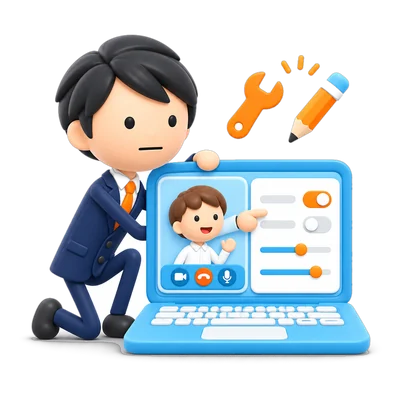
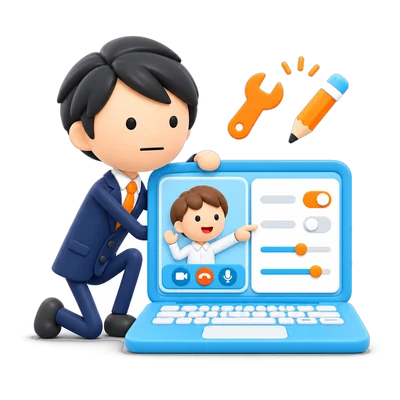
Sales: bỏ trang 08 FLOW, đánh lại số JILNESTA; tạo lại 3 cảnh salaryman lỗi tay (jil6, jil7, pr5) kèm test check-scene-arms

diff --git a/index.html b/index.html
@@ -2352,10 +2352,9 @@ html.js .pg.in .sf--n8 .sf-run{animation:sfN8Me var(--sf-t) var(--mv-p) infinite
       <a href="#sales-pr" data-sec="sales-pr"><em>05</em><span>ASEAN発表と展示会</span></a>
       <a href="#sales-reports" data-sec="sales-reports"><em>06</em><span>報告と会議</span></a>
       <a href="#sales-kpi" data-sec="sales-kpi"><em>07</em><span>KPIと評価項目</span></a>
-      <a href="#sales-flow" data-sec="sales-flow"><em>08</em><span>業務の流れ</span></a>
-      <a href="#sales-jil-hcm" data-sec="sales-jil-hcm"><em>09</em><span data-l="ja">JILNESTA 顧客マップ</span><span data-l="en">JILNESTA client map</span><span data-l="vi">JILNESTA bản đồ khách hàng</span></a>
-      <a href="#sales-jil-offshore" data-sec="sales-jil-offshore"><em>10</em><span data-l="ja">オフショア開発</span><span data-l="en">Offshore</span><span data-l="vi">Offshore Việt Nam - Nhật Bản</span></a>
-      <a href="#sales-jil-flow" data-sec="sales-jil-flow"><em>11</em><span data-l="ja">ITオフショア営業</span><span data-l="en">IT offshore sales</span><span data-l="vi">Kinh doanh IT offshore</span></a>
+      <a href="#sales-jil-hcm" data-sec="sales-jil-hcm"><em>08</em><span data-l="ja">JILNESTA 顧客マップ</span><span data-l="en">JILNESTA client map</span><span data-l="vi">JILNESTA bản đồ khách hàng</span></a>
+      <a href="#sales-jil-offshore" data-sec="sales-jil-offshore"><em>09</em><span data-l="ja">オフショア開発</span><span data-l="en">Offshore</span><span data-l="vi">Offshore Việt Nam - Nhật Bản</span></a>
+      <a href="#sales-jil-flow" data-sec="sales-jil-flow"><em>10</em><span data-l="ja">ITオフショア営業</span><span data-l="en">IT offshore sales</span><span data-l="vi">Kinh doanh IT offshore</span></a>
     </nav>
     <nav class="sb-nav" data-for="hr" hidden>
       <a href="#hr-top" data-sec="hr-top"><em>TOP</em><span data-l="ja">概要</span><span data-l="en">Overview</span><span data-l="vi">Tổng quan</span></a>
@@ -2956,7 +2955,7 @@ html.js .pg.in .sf--n8 .sf-run{animation:sfN8Me var(--sf-t) var(--mv-p) infinite
   <h2 class="kw rv" style="--d:60ms">顧客を訪問し、<br /><i>商談の進捗を数字で追う。</i></h2>
   <div class="kwbar rv" style="--d:120ms"><span></span></div>
   <p class="kw-sub rv" style="--d:140ms">MAYEKAWA VIETNAM（MYCOM、産業用冷凍機）における営業活動の記録です。2022年2月から2026年6月まで、営業部のアシスタントマネージャー（人事部長を兼務）を務めました。見込み客の調査から営業提案、基本的な技術提案、エンジニアチームとの機種選定、交渉、納品まで、営業サイクル全体を担当。</p>
-  <figure class="gx gx--grid" aria-hidden="true"><span class="gx-step"><i></i><b>01</b> / 09</span><div class="gx-in" style="--c:4;--mc:2"><div class="gx-tile" style="--i:0"><span class="gx-pl"><img src="assets/gx/roadmap.webp" alt="" width="88" height="88" loading="lazy" decoding="async"></span><b class="gx-lb"><span data-l="ja">出張</span><span data-l="en">Trips</span><span data-l="vi">Công tác</span></b><em class="gx-chip"><span data-l="ja">5省13社</span><span data-l="en">5 provinces, 13 firms</span><span data-l="vi">5 tỉnh, 13 công ty</span></em></div><div class="gx-tile" style="--i:1"><span class="gx-pl"><img src="assets/gx/calendar.webp" alt="" width="88" height="88" loading="lazy" decoding="async"></span><b class="gx-lb"><span data-l="ja">週次CRM会議</span><span data-l="en">Weekly CRM meetings</span><span data-l="vi">Họp CRM hằng tuần</span></b></div><div class="gx-tile" style="--i:2"><span class="gx-pl"><img src="assets/gx/report-chart.webp" alt="" width="88" height="88" loading="lazy" decoding="async"></span><b class="gx-lb"><span data-l="ja">見積と訪問の集計</span><span data-l="en">Quote and visit KPIs</span><span data-l="vi">KPI báo giá, gặp khách</span></b></div><div class="gx-tile" style="--i:3"><span class="gx-pl"><img src="assets/gx/milestone-report.webp" alt="" width="88" height="88" loading="lazy" decoding="async"></span><b class="gx-lb"><span data-l="ja">週次報告と出張報告</span><span data-l="en">Weekly and trip reports</span><span data-l="vi">Báo cáo tuần, công tác</span></b></div></div></figure>
+  <figure class="gx gx--grid" aria-hidden="true"><span class="gx-step"><i></i><b>01</b> / 08</span><div class="gx-in" style="--c:4;--mc:2"><div class="gx-tile" style="--i:0"><span class="gx-pl"><img src="assets/gx/roadmap.webp" alt="" width="88" height="88" loading="lazy" decoding="async"></span><b class="gx-lb"><span data-l="ja">出張</span><span data-l="en">Trips</span><span data-l="vi">Công tác</span></b><em class="gx-chip"><span data-l="ja">5省13社</span><span data-l="en">5 provinces, 13 firms</span><span data-l="vi">5 tỉnh, 13 công ty</span></em></div><div class="gx-tile" style="--i:1"><span class="gx-pl"><img src="assets/gx/calendar.webp" alt="" width="88" height="88" loading="lazy" decoding="async"></span><b class="gx-lb"><span data-l="ja">週次CRM会議</span><span data-l="en">Weekly CRM meetings</span><span data-l="vi">Họp CRM hằng tuần</span></b></div><div class="gx-tile" style="--i:2"><span class="gx-pl"><img src="assets/gx/report-chart.webp" alt="" width="88" height="88" loading="lazy" decoding="async"></span><b class="gx-lb"><span data-l="ja">見積と訪問の集計</span><span data-l="en">Quote and visit KPIs</span><span data-l="vi">KPI báo giá, gặp khách</span></b></div><div class="gx-tile" style="--i:3"><span class="gx-pl"><img src="assets/gx/milestone-report.webp" alt="" width="88" height="88" loading="lazy" decoding="async"></span><b class="gx-lb"><span data-l="ja">週次報告と出張報告</span><span data-l="en">Weekly and trip reports</span><span data-l="vi">Báo cáo tuần, công tác</span></b></div></div></figure>
   <div class="meta rv" style="--d:180ms;margin-top:18px">
     <div><span>Trips</span><b>メコンデルタ5省、13社の訪問計画</b></div>
     <div><span>Meetings</span><b>日本の工場との週次CRM会議</b></div>
@@ -3023,7 +3022,7 @@ html.js .pg.in .sf--n8 .sf-run{animation:sfN8Me var(--sf-t) var(--mv-p) infinite
   <h2 class="kw rv" style="--d:60ms">担当した<br /><i>顧客訪問と出張の記録。</i></h2>
   <div class="kwbar rv" style="--d:120ms"><span></span></div>
   <p class="kw-sub rv" style="--d:140ms">商談と顧客訪問を、時系列で紹介します。</p>
-  <figure class="gx gx--flow" aria-hidden="true"><span class="gx-step"><i></i><b>05</b> / 09</span><div class="gx-in"><div class="gx-st" style="--i:0"><span class="gx-pl"><img src="assets/gx/roadmap.webp" alt="" width="88" height="88" loading="lazy" decoding="async"></span><b class="gx-lb"><span data-l="ja">訪問計画</span><span data-l="en">Visit plan</span><span data-l="vi">Kế hoạch gặp khách</span></b></div><i class="gx-ln" style="--i:0"><i class="gx-cm"></i></i><div class="gx-st" style="--i:1"><span class="gx-pl"><img src="assets/gx/checklist.webp" alt="" width="88" height="88" loading="lazy" decoding="async"></span><b class="gx-lb"><span data-l="ja">出張の承認</span><span data-l="en">Trip approval</span><span data-l="vi">Duyệt công tác</span></b></div><i class="gx-ln" style="--i:1"><i class="gx-cm"></i></i><div class="gx-st" style="--i:2"><span class="gx-pl"><img src="assets/gx/interview.webp" alt="" width="88" height="88" loading="lazy" decoding="async"></span><b class="gx-lb"><span data-l="ja">顧客訪問</span><span data-l="en">Client visit</span><span data-l="vi">Gặp khách</span></b></div><i class="gx-ln" style="--i:2"><i class="gx-cm"></i></i><div class="gx-st is-hot" style="--i:3"><span class="gx-pl"><img src="assets/gx/milestone-report.webp" alt="" width="88" height="88" loading="lazy" decoding="async"></span><b class="gx-lb"><span data-l="ja">出張報告</span><span data-l="en">Trip report</span><span data-l="vi">Báo cáo công tác</span></b><em class="gx-chip gx-chip--o"><span data-l="ja">3営業日以内</span><span data-l="en">Within 3 days</span><span data-l="vi">Trong 3 ngày</span></em></div></div></figure>
+  <figure class="gx gx--flow" aria-hidden="true"><span class="gx-step"><i></i><b>05</b> / 08</span><div class="gx-in"><div class="gx-st" style="--i:0"><span class="gx-pl"><img src="assets/gx/roadmap.webp" alt="" width="88" height="88" loading="lazy" decoding="async"></span><b class="gx-lb"><span data-l="ja">訪問計画</span><span data-l="en">Visit plan</span><span data-l="vi">Kế hoạch gặp khách</span></b></div><i class="gx-ln" style="--i:0"><i class="gx-cm"></i></i><div class="gx-st" style="--i:1"><span class="gx-pl"><img src="assets/gx/checklist.webp" alt="" width="88" height="88" loading="lazy" decoding="async"></span><b class="gx-lb"><span data-l="ja">出張の承認</span><span data-l="en">Trip approval</span><span data-l="vi">Duyệt công tác</span></b></div><i class="gx-ln" style="--i:1"><i class="gx-cm"></i></i><div class="gx-st" style="--i:2"><span class="gx-pl"><img src="assets/gx/interview.webp" alt="" width="88" height="88" loading="lazy" decoding="async"></span><b class="gx-lb"><span data-l="ja">顧客訪問</span><span data-l="en">Client visit</span><span data-l="vi">Gặp khách</span></b></div><i class="gx-ln" style="--i:2"><i class="gx-cm"></i></i><div class="gx-st is-hot" style="--i:3"><span class="gx-pl"><img src="assets/gx/milestone-report.webp" alt="" width="88" height="88" loading="lazy" decoding="async"></span><b class="gx-lb"><span data-l="ja">出張報告</span><span data-l="en">Trip report</span><span data-l="vi">Báo cáo công tác</span></b><em class="gx-chip gx-chip--o"><span data-l="ja">3営業日以内</span><span data-l="en">Within 3 days</span><span data-l="vi">Trong 3 ngày</span></em></div></div></figure>
   <div class="tl rv" style="--d:180ms;margin-top:18px">
     <div class="card">
       <p class="yr">2022年7月 ～ 8月</p>
@@ -3112,7 +3111,7 @@ html.js .pg.in .sf--n8 .sf-run{animation:sfN8Me var(--sf-t) var(--mv-p) infinite
   <h2 class="kw rv" style="--d:60ms">見積と訪問回数を記録し、<br /><i>営業活動を数字で可視化する。</i></h2>
   <div class="kwbar rv" style="--d:120ms"><span></span></div>
   <p class="kw-sub rv" style="--d:140ms">営業担当として整備した記録の仕組みと、評価項目を紹介します。</p>
-  <figure class="gx gx--chart" aria-hidden="true"><span class="gx-step"><i></i><b>08</b> / 09</span><div class="gx-in"><div class="gx-side gx-side--l"><span class="gx-tag" style="--i:1"><span class="gx-pl"><img src="assets/gx/jd-document.webp" alt="" width="64" height="64" loading="lazy" decoding="async"></span><b class="gx-lb"><span data-l="ja">見積件数</span><span data-l="en">Quotations</span><span data-l="vi">Số báo giá</span></b></span></div><div class="gx-core"><span class="gx-chartc"><span class="gx-col" style="--h:52"><i class="gx-bar" style="--h:52;--i:0"></i></span><span class="gx-col" style="--h:38"><i class="gx-bar" style="--h:38;--i:1"></i></span><span class="gx-col" style="--h:66"><i class="gx-bar" style="--h:66;--i:2"></i></span><span class="gx-col" style="--h:48"><i class="gx-bar" style="--h:48;--i:3"></i></span><span class="gx-col" style="--h:80"><i class="gx-bar is-hot" style="--h:80;--i:4"></i></span><i class="gx-sheen"></i></span><em class="gx-chip gx-chip--o"><span data-l="ja">見積と訪問を記録</span><span data-l="en">Quotes and visits logged</span><span data-l="vi">Ghi báo giá, lượt gặp</span></em></div><div class="gx-side gx-side--r"><span class="gx-tag" style="--i:2"><span class="gx-pl"><img src="assets/gx/interview.webp" alt="" width="64" height="64" loading="lazy" decoding="async"></span><b class="gx-lb"><span data-l="ja">訪問回数</span><span data-l="en">Client visits</span><span data-l="vi">Lượt gặp khách</span></b></span><span class="gx-tag" style="--i:3"><span class="gx-pl"><img src="assets/gx/survey-clipboard.webp" alt="" width="64" height="64" loading="lazy" decoding="async"></span><b class="gx-lb"><span data-l="ja">評価シート</span><span data-l="en">Evaluation sheet</span><span data-l="vi">Phiếu đánh giá</span></b></span></div></div></figure>
+  <figure class="gx gx--chart" aria-hidden="true"><span class="gx-step"><i></i><b>08</b> / 08</span><div class="gx-in"><div class="gx-side gx-side--l"><span class="gx-tag" style="--i:1"><span class="gx-pl"><img src="assets/gx/jd-document.webp" alt="" width="64" height="64" loading="lazy" decoding="async"></span><b class="gx-lb"><span data-l="ja">見積件数</span><span data-l="en">Quotations</span><span data-l="vi">Số báo giá</span></b></span></div><div class="gx-core"><span class="gx-chartc"><span class="gx-col" style="--h:52"><i class="gx-bar" style="--h:52;--i:0"></i></span><span class="gx-col" style="--h:38"><i class="gx-bar" style="--h:38;--i:1"></i></span><span class="gx-col" style="--h:66"><i class="gx-bar" style="--h:66;--i:2"></i></span><span class="gx-col" style="--h:48"><i class="gx-bar" style="--h:48;--i:3"></i></span><span class="gx-col" style="--h:80"><i class="gx-bar is-hot" style="--h:80;--i:4"></i></span><i class="gx-sheen"></i></span><em class="gx-chip gx-chip--o"><span data-l="ja">見積と訪問を記録</span><span data-l="en">Quotes and visits logged</span><span data-l="vi">Ghi báo giá, lượt gặp</span></em></div><div class="gx-side gx-side--r"><span class="gx-tag" style="--i:2"><span class="gx-pl"><img src="assets/gx/interview.webp" alt="" width="64" height="64" loading="lazy" decoding="async"></span><b class="gx-lb"><span data-l="ja">訪問回数</span><span data-l="en">Client visits</span><span data-l="vi">Lượt gặp khách</span></b></span><span class="gx-tag" style="--i:3"><span class="gx-pl"><img src="assets/gx/survey-clipboard.webp" alt="" width="64" height="64" loading="lazy" decoding="async"></span><b class="gx-lb"><span data-l="ja">評価シート</span><span data-l="en">Evaluation sheet</span><span data-l="vi">Phiếu đánh giá</span></b></span></div></div></figure>
   <div class="g2 rv" style="--d:160ms">
     <div class="card"><span class="lbl">Built ／ 営業担当時代</span><h3>見積と訪問を集計する仕組み</h3><div class="lines">
       <p>見積書の入力ファイルを設計し、運用</p>
@@ -3123,26 +3122,10 @@ html.js .pg.in .sf--n8 .sf-run{animation:sfN8Me var(--sf-t) var(--mv-p) infinite
     </div>
   </div>
 </section>
-<section class="pg" data-chap="II" id="sales-flow">
-  <p class="colg colg--co rv"><img src="assets/logos/mayekawa.svg" alt="MAYEKAWA (MYCOM)" width="181" height="25" decoding="async"><span class="co-nm">MAYEKAWA VIETNAM<em>2022.02 ～ 2026.06</em></span></p>
-  <span class="eb rv">08　<b>FLOW</b></span>
-  <h2 class="kw rv" style="--d:60ms">問い合わせから納期調整まで、<br /><i>順を追って対応する。</i></h2>
-  <div class="kwbar rv" style="--d:120ms"><span></span></div>
-  <p class="kw-sub rv" style="--d:140ms">担当した業務を、顧客対応の流れに沿って整理しました。</p>
-  <figure class="gx gx--flow gx--long" aria-hidden="true"><span class="gx-step"><i></i><b>09</b> / 09</span><div class="gx-in"><div class="gx-st" style="--i:0"><span class="gx-pl"><img src="assets/gx/envelope.webp" alt="" width="88" height="88" loading="lazy" decoding="async"></span><b class="gx-lb"><span data-l="ja">引き合い受付</span><span data-l="en">Enquiry</span><span data-l="vi">Tiếp nhận yêu cầu</span></b></div><i class="gx-ln" style="--i:0"><i class="gx-cm"></i></i><div class="gx-st" style="--i:1"><span class="gx-pl"><img src="assets/gx/roadmap.webp" alt="" width="88" height="88" loading="lazy" decoding="async"></span><b class="gx-lb"><span data-l="ja">訪問計画</span><span data-l="en">Visit plan</span><span data-l="vi">Lên lịch gặp</span></b></div><i class="gx-ln" style="--i:1"><i class="gx-cm"></i></i><div class="gx-st" style="--i:2"><span class="gx-pl"><img src="assets/gx/checklist.webp" alt="" width="88" height="88" loading="lazy" decoding="async"></span><b class="gx-lb"><span data-l="ja">出張申請</span><span data-l="en">Trip request</span><span data-l="vi">Xin công tác</span></b></div><i class="gx-ln" style="--i:2"><i class="gx-cm"></i></i><div class="gx-st" style="--i:3"><span class="gx-pl"><img src="assets/gx/jd-document.webp" alt="" width="88" height="88" loading="lazy" decoding="async"></span><b class="gx-lb"><span data-l="ja">見積の記録</span><span data-l="en">Log quotes</span><span data-l="vi">Ghi báo giá</span></b></div><i class="gx-ln" style="--i:3"><i class="gx-cm"></i></i><div class="gx-st" style="--i:4"><span class="gx-pl"><img src="assets/gx/chat-bubbles.webp" alt="" width="88" height="88" loading="lazy" decoding="async"></span><b class="gx-lb"><span data-l="ja">見込みの共有</span><span data-l="en">Share forecasts</span><span data-l="vi">Chia sẻ dự báo</span></b></div><i class="gx-ln" style="--i:4"><i class="gx-cm"></i></i><div class="gx-st is-hot" style="--i:5"><span class="gx-pl"><img src="assets/gx/milestone-report.webp" alt="" width="88" height="88" loading="lazy" decoding="async"></span><b class="gx-lb"><span data-l="ja">定例報告</span><span data-l="en">Regular reports</span><span data-l="vi">Báo cáo định kỳ</span></b></div></div></figure>
-  <div class="g3 rv" style="--d:180ms">
-    <div class="card"><span class="fl4-n">01</span><h3>引き合い受付</h3><p>顧客の仕様書（RFQ）を受け取り、要件を項目ごとに確認</p></div>
-    <div class="card"><span class="fl4-n">02</span><h3>訪問計画</h3><p>省ごとに訪問先と先方担当者を決め、予定表に登録</p></div>
-    <div class="card"><span class="fl4-n">03</span><h3>出張申請</h3><p>日程、同行者、訪問先、目的、距離を記入し、出発前に承認を取得</p></div>
-    <div class="card"><span class="fl4-n">04</span><h3>見積の記録</h3><p>見積書を入力ファイルに記録し、訪問回数とあわせて集計</p></div>
-    <div class="card"><span class="fl4-n">05</span><h3>見込みの共有</h3><p>見込み台数をCRMに入力し、日本の工場との週次会議で納期を調整</p></div>
-    <div class="card"><span class="fl4-n">06</span><h3>定例報告</h3><p>週次の予定と結果、出張報告を上司へ提出</p></div>
-  </div>
-</section>
 <!-- sales-jil:start -->
 <section class="pg" data-chap="III" id="sales-jil-hcm">
   <p class="colg colg--co colg--jil rv"><img src="assets/logos/jilnesta.png" alt="JILNESTA" width="138" height="38" decoding="async"><span class="co-nm">JILNESTA, Inc.<em>2017.08 ～ 2022.02</em></span></p>
-  <span class="eb rv">09　<b>JILNESTA CLIENT MAP</b></span>
+  <span class="eb rv">08　<b>JILNESTA CLIENT MAP</b></span>
   <h2 class="kw rv" style="--d:60ms"><span data-l="ja">ホーチミン市の拠点から、<br /><i>IT企業と店舗を訪ねる。</i></span><span data-l="en">From the Ho Chi Minh City office<br /><i>to IT companies and shops.</i></span><span data-l="vi">Từ văn phòng tại TP.HCM,<br /><i>tỏa đi gặp công ty IT và cửa hàng.</i></span></h2>
   <div class="kwbar rv" style="--d:120ms"><span></span></div>
   <p class="kw-sub rv" style="--d:140ms" data-l="ja">JILNESTAのホーチミン市の拠点から市内のIT企業や店舗を訪ね、ソフトウェアと開発チームの需要を聞き取る。</p>
@@ -3159,7 +3142,7 @@ html.js .pg.in .sf--n8 .sf-run{animation:sfN8Me var(--sf-t) var(--mv-p) infinite
 </section>
 <section class="pg" data-chap="IV" id="sales-jil-offshore">
   <p class="colg colg--co colg--jil rv"><img src="assets/logos/jilnesta.png" alt="JILNESTA" width="138" height="38" decoding="async"><span class="co-nm">JILNESTA, Inc.<em>2017.08 ～ 2022.02</em></span></p>
-  <span class="eb rv">10　<b>OFFSHORE</b></span>
+  <span class="eb rv">09　<b>OFFSHORE</b></span>
   <h2 class="kw rv" style="--d:60ms"><span data-l="ja">ベトナムの開発チームと、<br /><i>日本の顧客をつなぐ。</i></span><span data-l="en">A dev team in Vietnam,<br /><i>clients in Japan.</i></span><span data-l="vi">Đội dev tại Việt Nam,<br /><i>khách hàng tại Nhật Bản.</i></span></h2>
   <div class="kwbar rv" style="--d:120ms"><span></span></div>
   <p class="kw-sub rv" style="--d:140ms" data-l="ja">ベトナムの開発チームがJILNESTAを通じてオンラインで日本の顧客とつながり、オフショアで製品を開発。</p>
@@ -3176,7 +3159,7 @@ html.js .pg.in .sf--n8 .sf-run{animation:sfN8Me var(--sf-t) var(--mv-p) infinite
 </section>
 <section class="pg" data-chap="V" id="sales-jil-flow">
   <p class="colg colg--co colg--jil rv"><img src="assets/logos/jilnesta.png" alt="JILNESTA" width="138" height="38" decoding="async"><span class="co-nm">JILNESTA, Inc.<em>2017.08 ～ 2022.02</em></span></p>
-  <span class="eb rv">11　<b>OFFSHORE SALES FLOW</b></span>
+  <span class="eb rv">10　<b>OFFSHORE SALES FLOW</b></span>
   <h2 class="kw rv" style="--d:60ms"><span data-l="ja">要望を聞き、仕様にして、<br /><i>顧客に合わせて作り込む。</i></span><span data-l="en">Hear the needs, write the spec,<br /><i>customize for each client.</i></span><span data-l="vi">Lắng nghe, viết đặc tả,<br /><i>tùy chỉnh theo từng khách hàng.</i></span></h2>
   <div class="kwbar rv" style="--d:120ms"><span></span></div>
   <p class="kw-sub rv" style="--d:140ms" data-l="ja">ITオフショアの営業として、資料準備から提案、聞き取り、仕様書、開発、調整、納品、請求までの8段階を担当。</p>
@@ -6163,10 +6146,6 @@ html.js .gx-tag .gx-pl img,html.js .gx-tile .gx-pl img{animation:gxFloat 3.6s ea
     "Tôi tổng hợp cách ghi nhận đã xây dựng khi phụ trách kinh doanh và các tiêu chí đánh giá nhân viên.",
     "I set up this tracking method while in sales; the card also shows the staff evaluation criteria."
   ],
-  "担当した業務を、顧客対応の流れに沿って整理しました。":[
-    "Tôi sắp xếp các công việc mình phụ trách theo trình tự xử lý yêu cầu của khách.",
-    "I arranged my tasks in the order I handled a client enquiry."
-  ],
   "営業部の報告体制と、参加した会議の概要です。":[
     "Tôi tổng hợp cách báo cáo của phòng Kinh doanh và các cuộc họp tôi tham gia.",
     "I summarised the Sales department’s reporting system and the meetings I attended."
@@ -6367,10 +6346,6 @@ html.js .gx-tag .gx-pl img,html.js .gx-tile .gx-pl img{animation:gxFloat 3.6s ea
   "見積と訪問回数を記録し、営業活動を数字で可視化する。":[
     "Tôi ghi nhận báo giá và lượt gặp khách,<br /><i>để theo dõi hoạt động kinh doanh bằng số liệu</i>.",
     "I recorded quotations and client visits<br /><i>to make sales activity measurable</i>."
-  ],
-  "問い合わせから納期調整まで、順を追って対応する。":[
-    "Tôi xử lý công việc theo từng bước,<br /><i>từ yêu cầu đến lịch giao hàng</i>.",
-    "I handled each step<br /><i>from enquiry through to delivery</i>."
   ]
 }, UI={"ja": {"menu": "目次", "close": "閉じる", "title": "タイ チャン ホアン ニャ ポートフォリオ"}, "vi": {"menu": "Mục lục", "close": "Đóng", "title": "Thái Trần Hoàng Nhã | Portfolio"}, "en": {"menu": "Menu", "close": "Close", "title": "Thai Tran Hoang Nha | Portfolio"}};
   
@@ -6539,7 +6514,7 @@ html.js .gx-tag .gx-pl img,html.js .gx-tile .gx-pl img{animation:gxFloat 3.6s ea
 <script id="pganh-js">
 (function(){
   var IDS=['cover','toc','profile','projects','skillmap','career','w-mycom','w-jil','w-it','w-early',
-    'sales-top','sales-map','sales-cycle','sales-pain','sales-trips','sales-pr','sales-reports','sales-kpi','sales-flow','sales-jil-hcm','sales-jil-offshore','sales-jil-flow',
+    'sales-top','sales-map','sales-cycle','sales-pain','sales-trips','sales-pr','sales-reports','sales-kpi','sales-jil-hcm','sales-jil-offshore','sales-jil-flow',
     'hr-top','hr-hire','hr-people','hr-ops',
     'team-top','team-records','team-skills','team-daily','ai-top','ai-pyramid','ai-approach','ai-uses','ai-people','ai-tools',
     'lang-top','lang-ja','lang-en','lang-bridge',
